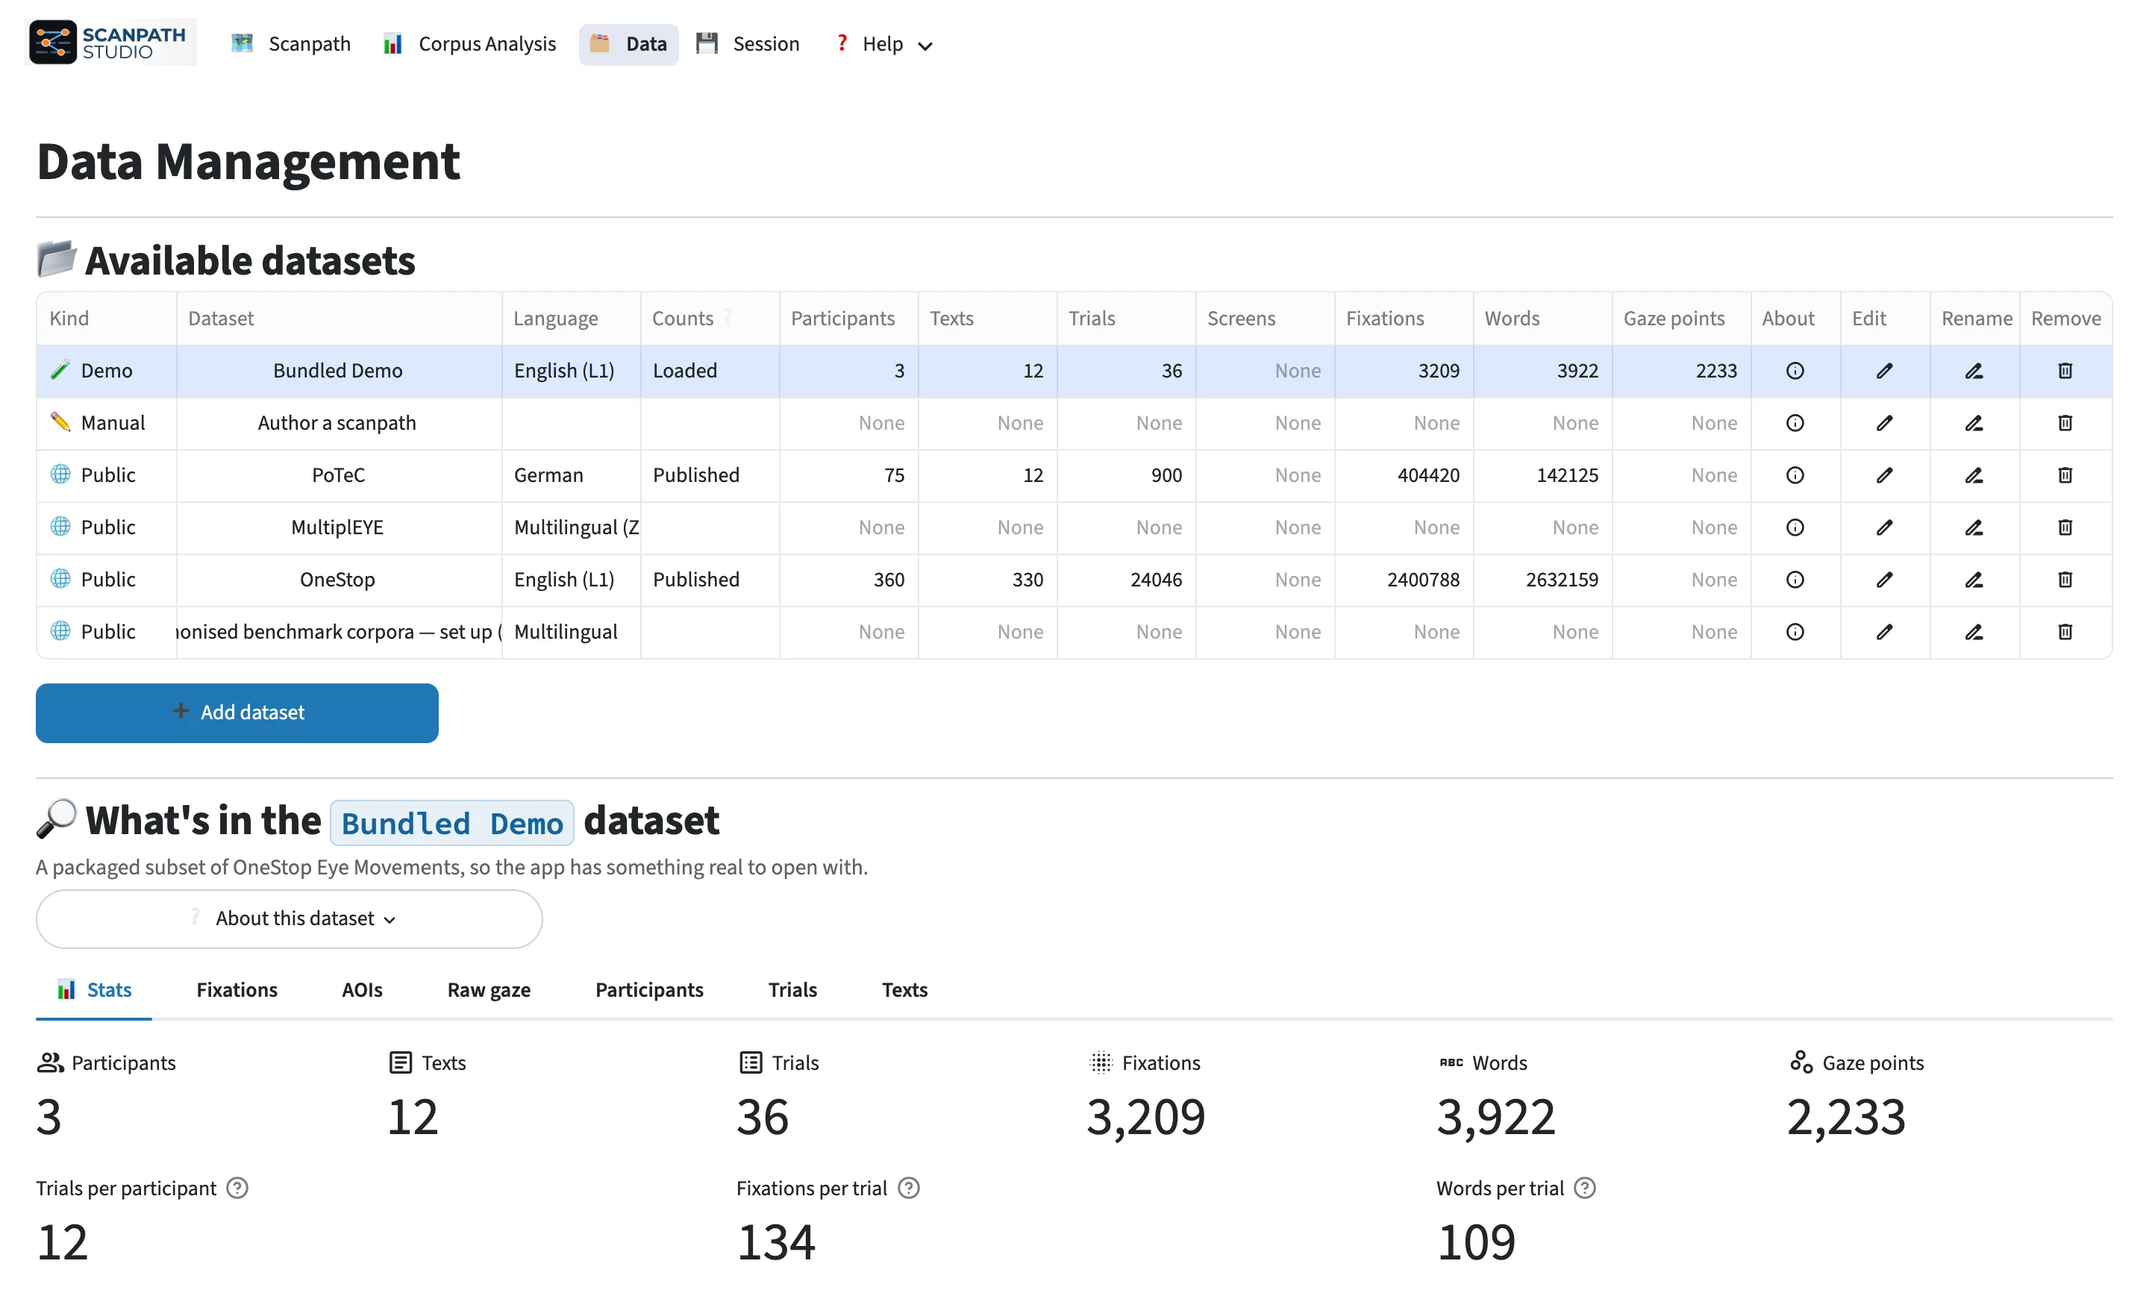
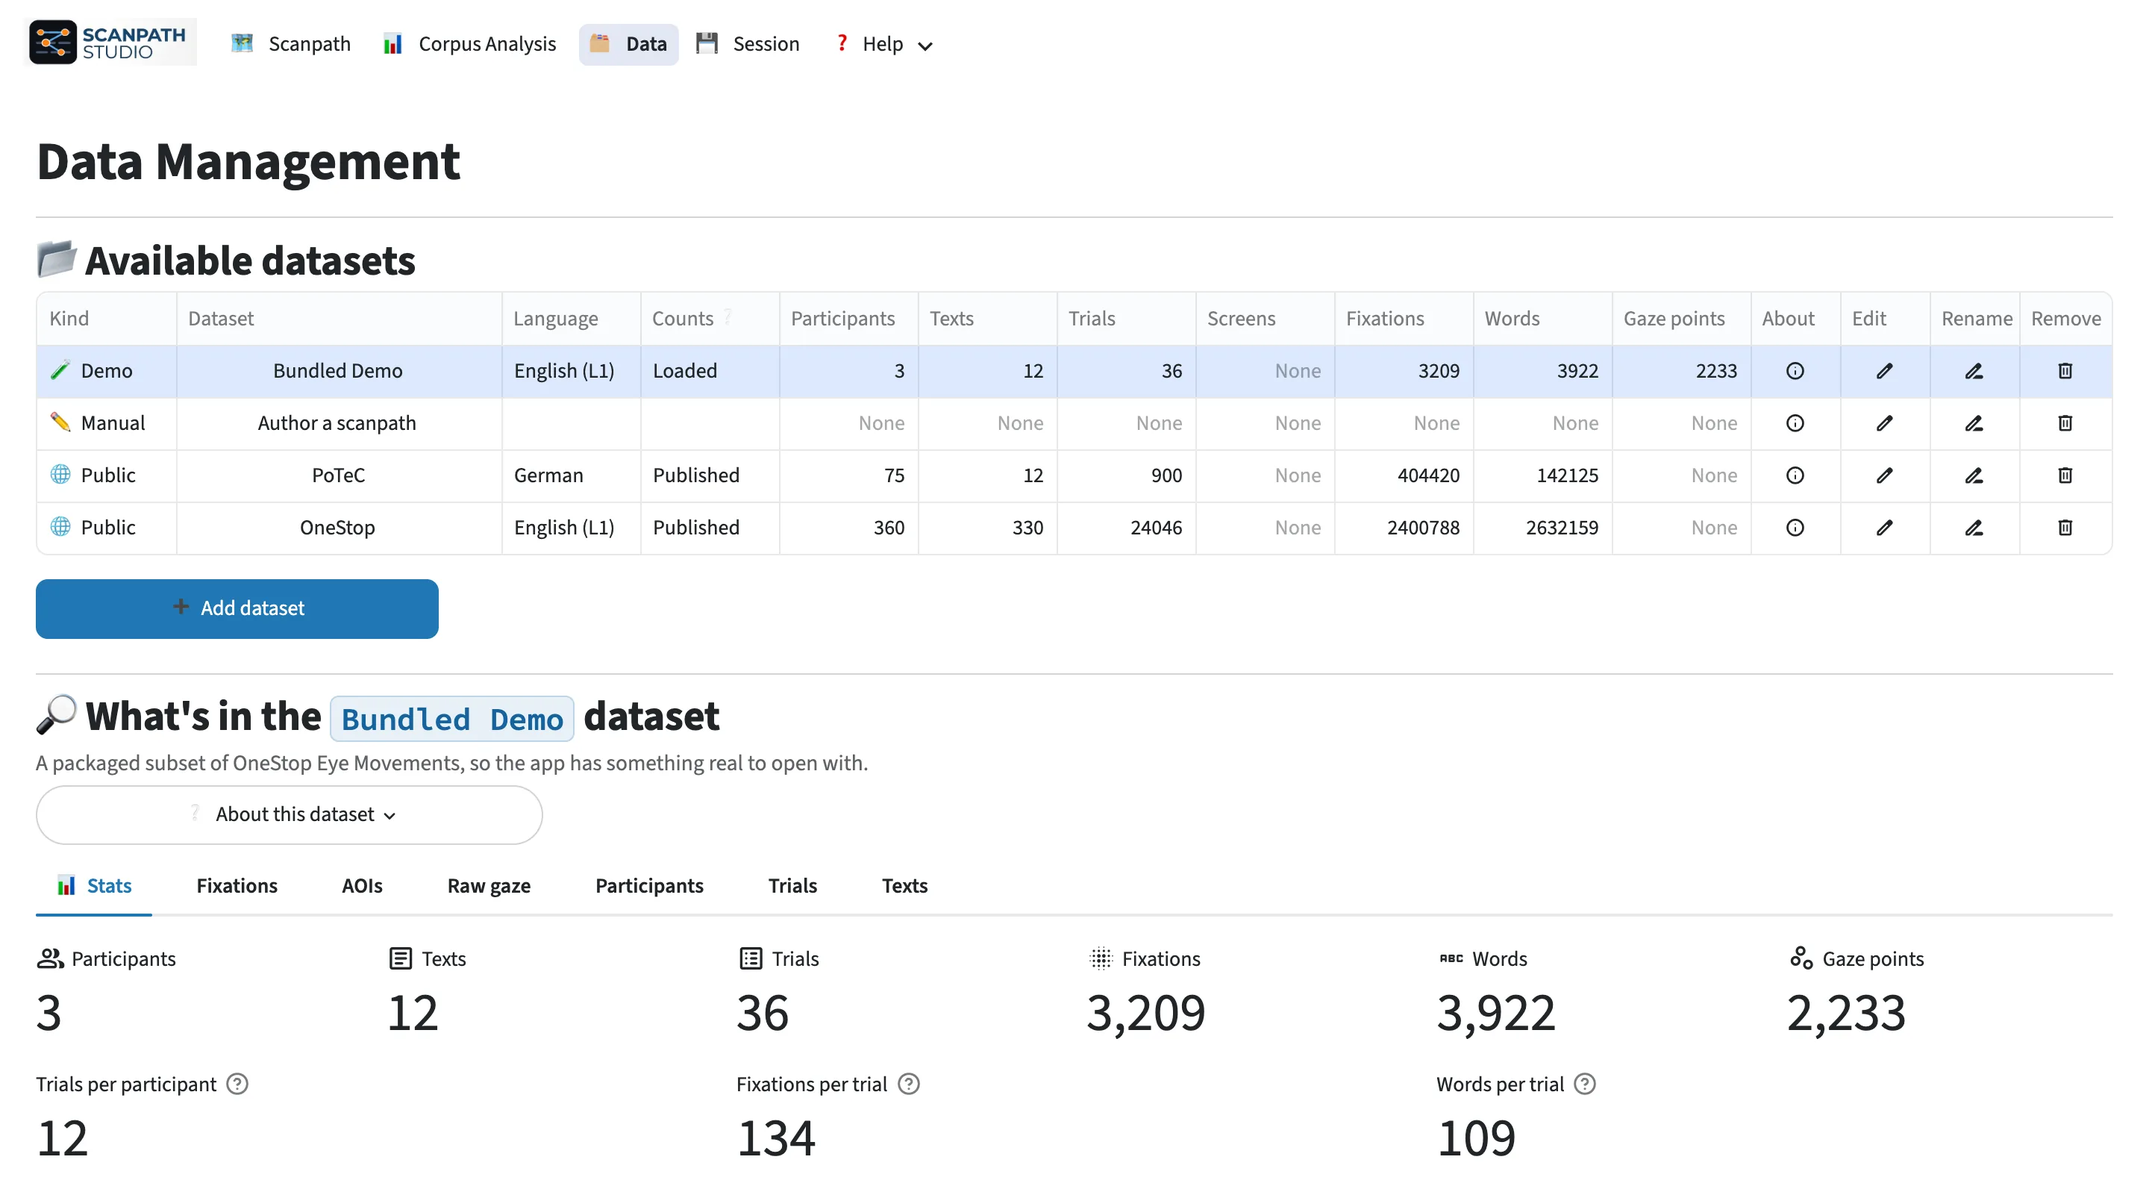
feat: hold MultiplEYE and the benchmark placeholder back from the beta (DATA-54)
MultiplEYE's data is not openly available yet and its loader was tested
on one sample; the benchmark "set up" placeholder asks for a bundle only
the private EyeGenBench pipeline can build. Unless SCANPATH_EXPERIMENTAL
is set, app.public_dataset_registry leaves both out, which hides them
from the data picker, the Data page, Compare's scanpath B and share links
at once; render --help stops listing --source, --export and
--no-question-screens. The flags still parse and load_multipleye still
works (PRE-22's rule), and a bundle already on disk is still found.

The docs drop MultiplEYE: its page stays in the repository with a banner
and its URL redirects to Loading data. The Data page screenshot is
re-captured without the two rows.

diff --git a/tests/test_experimental_gate.py b/tests/test_experimental_gate.py
@@ -471,3 +471,83 @@ class TestMultiplEYEUploadGate:
 
         assert callable(datasets.multipleye_frames_from_uploads)
         assert callable(datasets.load_multipleye_uploads)
+
+
+class TestTheBetaHidesMultiplEYEAndTheBenchmarkPlaceholder:
+    """DATA-54: two entries the beta does not offer. MultiplEYE's data is not
+    openly available yet, and the benchmark placeholder points at a pipeline
+    only the lab can run. Gated in `app.public_dataset_registry`, the one place
+    the picker, the 🗂 Data page, Compare and share links all read."""
+
+    @pytest.fixture(autouse=True)
+    def _no_benchmark_bundle(self, tmp_path, monkeypatch):
+        """Nothing discovered — the only state the placeholder exists in, so a
+        developer's own bundle at the default location can't decide these."""
+        from scanpath_studio import app, compare_source
+
+        for module in (app, compare_source):
+            monkeypatch.setattr(
+                module, "EYEGENBENCH_DEFAULT_DIR", str(tmp_path / "absent")
+            )
+        app._cached_eyegenbench_datasets.clear()
+
+    def test_neither_entry_is_offered(self):
+        from scanpath_studio import app
+
+        registry = app.public_dataset_registry()
+        assert app.MULTIPLEYE_PUBLIC_CHOICE not in registry
+        assert constants.BENCHMARK_SETUP_CHOICE not in registry
+        # The other built-ins are unaffected.
+        assert app.ONESTOP_PUBLIC_CHOICE in registry
+        assert any("PoTeC" in label for label in registry)
+
+    def test_the_flag_brings_both_back(self, monkeypatch):
+        from scanpath_studio import app
+
+        monkeypatch.setenv(constants.EXPERIMENTAL_ENV_VAR, "1")
+        registry = app.public_dataset_registry()
+        assert app.MULTIPLEYE_PUBLIC_CHOICE in registry
+        assert constants.BENCHMARK_SETUP_CHOICE in registry
+
+    def test_compare_does_not_offer_multipleye_as_scanpath_b(self, monkeypatch):
+        from scanpath_studio import app, compare_source
+
+        monkeypatch.setenv("SCANPATH_PUBLIC_DATASETS", "1")
+        names = [name for name, _ok, _why in compare_source.secondary_dataset_options()]
+        assert app.MULTIPLEYE_PUBLIC_CHOICE not in names
+        assert app.ONESTOP_PUBLIC_CHOICE in names  # not passing by offering nothing
+
+    def test_a_multipleye_share_link_no_longer_resolves(self, monkeypatch):
+        """A link naming the corpus falls back like any corpus the recipient
+        lacks, rather than opening a source the build does not offer."""
+        from scanpath_studio import app, url_state
+
+        assert url_state.corpus_choice_for_slug("multipleye") is None
+        monkeypatch.setenv(constants.EXPERIMENTAL_ENV_VAR, "1")
+        assert (
+            url_state.corpus_choice_for_slug("multipleye")
+            == app.MULTIPLEYE_PUBLIC_CHOICE
+        )
+
+    def test_the_render_flags_are_hidden_but_still_work(self):
+        """Hidden from `--help` (and so from the generated CLI reference); a
+        script that already passes them keeps working."""
+        from scanpath_studio import cli
+
+        parser = cli._render_parser()
+        help_text = parser.format_help()
+        for flag in ("--source", "--export", "--no-question-screens"):
+            assert flag not in help_text, flag
+        args = parser.parse_args(
+            ["--source", "multipleye", "--export", "x", "--no-question-screens"]
+        )
+        assert (args.source, args.export, args.no_question_screens) == (
+            "multipleye",
+            "x",
+            True,
+        )
+
+    def test_the_multipleye_loader_is_untouched(self):
+        from scanpath_studio import datasets
+
+        assert callable(datasets.load_multipleye)

diff --git a/scanpath_studio/cli.py b/scanpath_studio/cli.py
@@ -49,6 +49,7 @@ from .constants import (
     SACCADE_WIDTH_BOUNDS,
     UNIFORM_COLOR_FIELD,
     drift_correction_enabled,
+    multipleye_enabled,
     palette_settings,
 )
 
@@ -444,28 +445,41 @@ def _render_parser() -> argparse.ArgumentParser:
         help="OneStop source variant for --onestop: 'public' (OSF download) or "
         "'lacclab' (a local lab-processed export; no download).",
     )
+
+    # DATA-54: MultiplEYE is held back from the beta. Its flags still parse and
+    # work, so a script that already uses them keeps running (PRE-22's rule), but
+    # `--help` — and the docs' reference, generated from it — don't list them.
+    def mpe_help(text: str) -> str:
+        return text if multipleye_enabled() else argparse.SUPPRESS
+
     src.add_argument(
         "--source",
         metavar="NAME",
         choices=["multipleye"],
-        help="Load a native server-bundle corpus from its RAW export instead of "
-        "raw words/fixations tables. Currently only 'multipleye' — pair with "
-        "--export DIR. Renders through the same native loader (correct word "
-        "boxes/text/page layout, 1920x1080 monitor) as the interactive viewer.",
+        help=mpe_help(
+            "Load a native server-bundle corpus from its RAW export instead of "
+            "raw words/fixations tables. Currently only 'multipleye' — pair with "
+            "--export DIR. Renders through the same native loader (correct word "
+            "boxes/text/page layout, 1920x1080 monitor) as the interactive viewer."
+        ),
     )
     src.add_argument(
         "--export",
         metavar="DIR",
-        help="Raw export root for --source (e.g. a MultiplEYE_*_* export dir with "
-        "per-session scanpaths/ subfolders). Defaults to $MULTIPLEYE_DATA_DIR "
-        "for --source multipleye.",
+        help=mpe_help(
+            "Raw export root for --source (e.g. a MultiplEYE_*_* export dir with "
+            "per-session scanpaths/ subfolders). Defaults to $MULTIPLEYE_DATA_DIR "
+            "for --source multipleye."
+        ),
     )
     src.add_argument(
         "--no-question-screens",
         action="store_true",
-        help="--source multipleye: load the reading pages only, leaving out the "
-        "comprehension-question screens (they are included by default, as "
-        "screens of the same trial).",
+        help=mpe_help(
+            "--source multipleye: load the reading pages only, leaving out the "
+            "comprehension-question screens (they are included by default, as "
+            "screens of the same trial)."
+        ),
     )
 
     src.add_argument(

diff --git a/scanpath_studio/app.py b/scanpath_studio/app.py
@@ -102,7 +102,9 @@ from scanpath_studio.constants import (
     WIZARD_LEAVE_KEY,
     WIZARD_STAY_KEY,
     WORD_LABEL_COLOR,
+    benchmark_setup_enabled,
     language_display,
+    multipleye_enabled,
     preprocessing_enabled,
     upload_limit_mb,
 )
@@ -2221,6 +2223,10 @@ def _load_benchmark_source(
 # caption). To add a corpus: write a loader in datasets.py, wrap it in a
 # `_load_*_source` function above, and add one entry here — the
 # searchable picker scales as the catalogue grows.
+#: The MultiplEYE entry's registry label, named because DATA-54's beta gate
+#: (`constants.multipleye_enabled`) has to find it.
+MULTIPLEYE_PUBLIC_CHOICE = "MultiplEYE — multilingual reading (ZH-CH sample)"
+
 PUBLIC_DATASET_REGISTRY: dict = {
     "PoTeC — Potsdam Textbook Corpus": dict(
         loader=_load_potec_source,
@@ -2251,7 +2257,7 @@ PUBLIC_DATASET_REGISTRY: dict = {
         "no recorded (x, y), so each fixation sits at the centre of the "
         "character it names. The word boxes are the corpus' own `.ias` files.",
     ),
-    "MultiplEYE — multilingual reading (ZH-CH sample)": dict(
+    MULTIPLEYE_PUBLIC_CHOICE: dict(
         loader=_load_multipleye_source,
         monitor=(1920, 1080),  # MultiplEYE physical screen (coords offset to it)
         short="MultiplEYE",
@@ -2497,11 +2503,18 @@ def public_dataset_registry() -> dict:
     are composed in here and every consumer calls this instead of reading the
     dict. Discovery is cached (`_cached_eyegenbench_datasets`), so calling it
     several times a run costs one manifest read.
+
+    DATA-54 holds two entries back for the beta — MultiplEYE and the benchmark
+    set-up placeholder — unless ``SCANPATH_EXPERIMENTAL`` is on. Gating here,
+    the one place every consumer reads, is what hides them from the picker, the
+    🗂 Data page, Compare's second dataset and share links at once.
     """
     registry = dict(PUBLIC_DATASET_REGISTRY)
+    if not multipleye_enabled():
+        registry.pop(MULTIPLEYE_PUBLIC_CHOICE, None)
     discovered = _benchmark_registry_entries()
     registry.update(discovered)
-    if not discovered:
+    if not discovered and benchmark_setup_enabled():
         # R39: with nothing discovered there is no entry, so there would be
         # nowhere to type the bundle's path. Exactly one placeholder carries the
         # directory input until a corpus exists.

diff --git a/scanpath_studio/constants.py b/scanpath_studio/constants.py
@@ -63,6 +63,34 @@ def multipleye_upload_enabled() -> bool:
     return experimental_features_enabled()
 
 
+def multipleye_enabled() -> bool:
+    """Whether the MultiplEYE corpus is offered, this release (DATA-54).
+
+    Held back for the beta: its data is not openly available yet, and the loader
+    was built and tested on one sample (Zurich Chinese). Off, the entry leaves
+    the public-dataset registry — so the data picker, the 🗂 Data page, Compare's
+    second dataset and share links all stop offering it — and `render`'s
+    ``--source multipleye`` / ``--export`` / ``--no-question-screens`` flags are
+    hidden from ``--help``. Like PRE-22's gate, this hides rather than breaks:
+    those flags still parse, and `datasets.load_multipleye` is untouched, so a
+    script that already uses them keeps working.
+    """
+    return experimental_features_enabled()
+
+
+def benchmark_setup_enabled() -> bool:
+    """Whether the *set up a local bundle* placeholder for the harmonised
+    benchmark corpora is offered in the app, this release (DATA-54).
+
+    With no bundle found, `app.public_dataset_registry` would offer one
+    placeholder entry carrying the bundle's directory box. A bundle can only be
+    built with the EyeGenBench pipeline, which is not public yet, so for the beta
+    the placeholder is hidden. Corpora *discovered* in a bundle at the default
+    location are still offered: only someone who can build one has one.
+    """
+    return experimental_features_enabled()
+
+
 def preprocessing_enabled() -> bool:
     """Whether the soft-exclusion / merge pipeline is exposed **in the app** (PRE-22).
 

diff --git a/CHANGELOG.md b/CHANGELOG.md
@@ -19,6 +19,7 @@ and this project adheres to [Semantic Versioning](https://semver.org/spec/v2.0.0
 - **The feature guides show the app, in screenshots a script re-captures** (ENG-78)
 - **The docs site navigates without reloading, serves its own fonts, dates each page, and publishes `/llms.txt`** (ENG-79)
 - **The docs keep only what the beta stands behind: no security audit, no internal pages, no claims the code doesn't back** (ENG-80)
+- **MultiplEYE and the benchmark set-up entry are held back from the beta** (DATA-54)
 
 ### Details
 
@@ -34,6 +35,7 @@ and this project adheres to [Semantic Versioning](https://semver.org/spec/v2.0.0
 - **The feature guides show the app, in screenshots a script re-captures** (ENG-78) — `scripts/capture_docs_screenshots.py` starts its own app with the recovery cache off and writes WebP captures of the Scanpath view (its regions numbered), Export, Share, Corpus Analysis and the Data page. The home page plays the app recording as a 0.6 MB MP4 instead of the 4 MB GIF; `record_app_demo.py` now writes both.
 - **The docs site navigates without reloading, serves its own fonts, dates each page, and publishes `/llms.txt`** (ENG-79) — Material's instant navigation, breadcrumbs, edit buttons and tooltips; fonts and other external assets are fetched at build time and served by the site; link-preview cards render on deploy. `mkdocs build --strict` now also fails on a link to a missing heading, and runs on every pull request, since the build executes code; a weekly `lychee` job checks the external links.
 - **The docs keep only what the beta stands behind: no security audit, no internal pages, no claims the code doesn't back** (ENG-80) — every hand-written page was checked against the code. Off the site: the 0.25.0 security audit, the architecture and true-to-scale rendering pages (copies of `AGENTS.md` and the code), and the dataset-adapter contract and harmonised benchmark corpora, which stay in the repository — the second needs a bundle only the private EyeGenBench pipeline can build, so the home page no longer offers "thirty-one" corpora; old URLs redirect. Gone from the rest: drift correction and other features this build hides, lab-internal OneStop material, URL-parameter tables, design history and tracker ids (the `api.py` docstrings included), and repeats of what another page says. Corrected: the macOS first launch (Sequoia has no right-click override), the desktop download size, what a JSON backup holds, MultiplEYE's folder layout and Zurich-only screen, the data-filtering tutorial's index-range and "reproducible pool" claims, the glossary's saccade classes and skip definition, and two stale register formulas. `agents.md` halves; its option tables gave way to the generated one.
+- **MultiplEYE and the benchmark set-up entry are held back from the beta** (DATA-54) — MultiplEYE's data is not openly available yet and its loader has been tested on one sample; the benchmark placeholder asks for a bundle only the private EyeGenBench pipeline can build. Unless `SCANPATH_EXPERIMENTAL` is set, `app.public_dataset_registry` leaves both out, so the data picker, the 🗂 Data page, Compare's scanpath B and share links stop offering them (a `?corpus=multipleye` link falls back like any corpus the recipient lacks), and `render --help` stops listing `--source`, `--export` and `--no-question-screens`. As with PRE-22, this hides and doesn't break: the flags still parse, `load_multipleye` still works, and a benchmark bundle or `MULTIPLEYE_DATA_DIR` export already on disk is still found. The docs drop MultiplEYE; its page stays in the repository and its URL redirects to *Loading data*.
 
 ## [0.31.0] - 2026-09-24
 

diff --git a/docs/agents.md b/docs/agents.md
@@ -126,9 +126,9 @@ words, fixations = sps.load_scanpath_data(words=ia_df, fixations=fix_df)
 words, fixations = sps.load_scanpath_data(fixations="fix.parquet")  # one table
 ```
 
-Ready-made public corpora have their own loaders — `sps.load_potec(dir)`,
-`sps.load_onestop(dir)`, `sps.load_multipleye(dir)` — which return the same
-normalized pair. See [OneStop](onestop.md) and [MultiplEYE](multipleye.md).
+Ready-made public corpora have their own loaders — `sps.load_potec(dir)` and
+`sps.load_onestop(dir)` — which return the same normalized pair. See
+[OneStop](onestop.md).
 
 A raw-gaze table is loaded with `load_raw_gaze(path_or_frame)` (columns
 auto-detected; `raw_gaze_schema=` overrides), or `load_sample_raw_gaze()` for

diff --git a/docs/cli.md b/docs/cli.md
@@ -91,15 +91,10 @@ scanpath-studio render --potec ./potec --list-trials
 # OneStop, choosing the variant, regime and part
 scanpath-studio render --onestop ./onestop --onestop-variant public \
   --onestop-regime ordinary --onestop-part Paragraph --list-trials
-
-# MultiplEYE, from its raw export
-scanpath-studio render --source multipleye --export ./multipleye_session \
-  --list-trials
 ```
 
-`--no-question-screens` drops MultiplEYE's comprehension screens. The Python
-API takes the same corpora through `load_potec`, `load_onestop` and
-`load_multipleye`.
+The Python API takes the same corpora through `load_potec` and
+`load_onestop`.
 
 ## Compare two scanpaths
 

diff --git a/docs/multipleye.md b/docs/multipleye.md
@@ -1,5 +1,11 @@
 # MultiplEYE dataset
 
+> **Not on the docs site (DATA-54).** MultiplEYE is held back from the
+> beta: its data is not openly available yet, and the loader was built
+> and tested on one sample. The app offers it only with
+> `SCANPATH_EXPERIMENTAL=1`; `load_multipleye` and `render --source
+> multipleye` still work. This page is kept for the people using it.
+
 [MultiplEYE](https://multipleye.eu/) is a multilingual eye-tracking-while-reading
 corpus. Scanpath Studio loads a MultiplEYE session set from a local directory;
 the loader was built and tested on the Zurich Chinese (ZH-CH) sample. This page

diff --git a/docs/index.md b/docs/index.md
@@ -58,7 +58,7 @@ Inspect, compare, analyse, and export eye-tracking-while-reading scanpaths.
   datasets.
 - **Flexible loading:** your own word, fixation, and raw-gaze tables with
   automatic or manual column mapping, a table of participant metadata, or the
-  OneStop, PoTeC and MultiplEYE public corpora.
+  OneStop and PoTeC public corpora.
 - **Corpus analysis:** per-text, per-sentence, per-reader, and group summaries
   using standard reading measures, each one documented in the
   [computation register](computations.md).

diff --git a/docs/api.md b/docs/api.md
@@ -56,8 +56,6 @@ print(measures[columns].head(3))
 
 ::: scanpath_studio.datasets.load_onestop
 
-::: scanpath_studio.datasets.load_multipleye
-
 ## Inspect and measure
 
 ::: scanpath_studio.api.list_trials

diff --git a/docs/cite.md b/docs/cite.md
@@ -40,5 +40,4 @@ well:
 }
 ```
 
-Any other corpus you load is cited in its own right — see its page under
-*Public corpora*.
+Any other corpus you load is cited in its own right.
